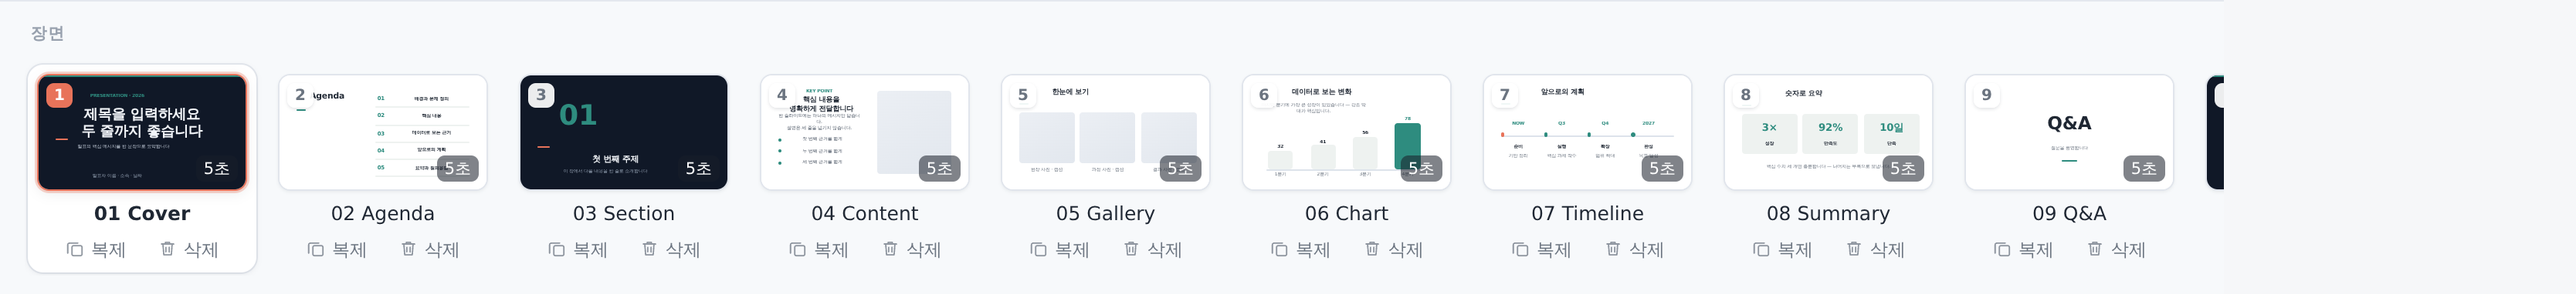
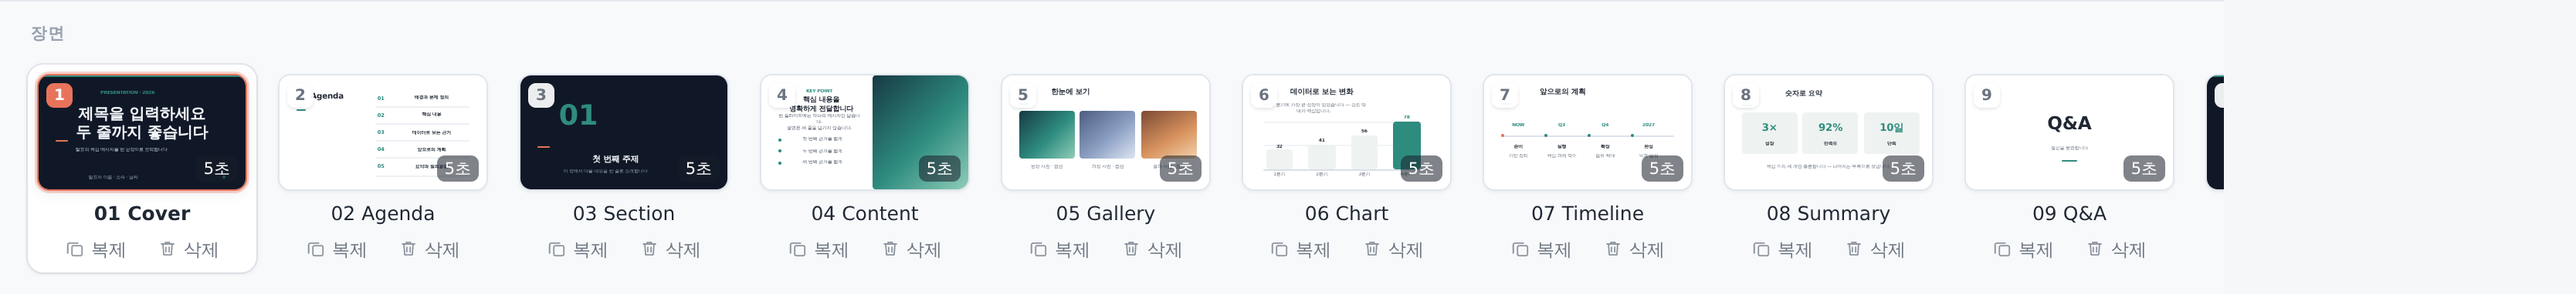
Round 08 — Premium Presentation 품질 상향 (새 템플릿 없음, tpl-pr-presentation-01 단독). ① Typography: 표지 제목 11→12·라이트 씬 대제목 5.8 통일·Agenda 6.2·라벨 2.2·베이스라인 정렬(Agenda 번호/텍스트) ② Layout: 12그리드 재정렬 — 차트 바 13/간격 7.5·타임라인 노드 라인 정중앙·stats 카드 36h 리듬·ending 라인 6.5 리듬 ③ Components v2: cover(라벨 라인+마이크로 포인트+상단 바 0.8), cont

diff --git a/maker-playground/data/sections.js b/maker-playground/data/sections.js
@@ -32,6 +32,14 @@ window.MK_SEC = (() => {
     return (0.2126 * r + 0.7152 * g + 0.0722 * b) / 255 < 0.45;
   };
 
+  /* ---------- 사진형 더미 (실서비스풍 추상 그라데이션 — 회색 박스 금지) ---------- */
+  const PH = {
+    a: 'linear-gradient(135deg,#173A44 0%,#2E8C7F 55%,#8FCDB9 100%)',
+    b: 'linear-gradient(150deg,#7C4A34 0%,#D9935F 58%,#F2D3AC 100%)',
+    c: 'linear-gradient(140deg,#4C5C80 0%,#8CA0C4 55%,#DDE4F1 100%)',
+    d: 'linear-gradient(160deg,#20313F 0%,#3E6A75 60%,#9CC3C0 100%)',
+  };
+
   /* ---------- 프리미엄 팔레트 ---------- */
   const PALETTES = {
     'pl-ink':    { name: 'Ink & Teal',   dark: '#101827', light: '#FFFFFF', soft: '#EEF2F0', accent: '#2E8C7F', accent2: '#E8735A', mutedOnDark: '#8A97A8', mutedOnLight: '#6B7480' },
@@ -46,22 +54,24 @@ window.MK_SEC = (() => {
 
   /* 01 Cover — 다크 표지: 라벨 · 초대형 제목 · 메타 · 포인트 */
   const cover = (P, { label, title, subtitle, meta }) => [
-    box(0, 0, 100, 1.1, P.accent),
-    t(8, 16, 60, 2.4, label, 700, P.accent),
-    t(8, 27, 84, 11, title, 700),
-    box(8, 55, 6.5, 0.9, P.accent2),
-    t(8, 61, 66, 3.4, subtitle, 400),
-    t(8, 86, 60, 2.4, meta, 500, P.mutedOnDark),
+    box(0, 0, 100, 0.8, P.accent),
+    box(8, 15.5, 3.6, 0.55, P.accent),
+    t(13, 14, 60, 2.2, label, 700, P.accent),
+    t(8, 25, 84, 12, title, 700),
+    box(8, 57, 6.5, 0.8, P.accent2),
+    t(8, 63.5, 64, 3.3, subtitle, 400),
+    t(8, 87, 56, 2.3, meta, 500, P.mutedOnDark),
+    box(88.6, 87.6, 1.6, 2.8, P.accent),
   ];
 
   /* 02 Agenda — 좌 대제목 · 우 번호 리스트 */
   const agenda = (P, { title, items }) => {
-    const els = [t(8, 14, 30, 6.5, title, 700), box(8, 30, 5, 0.9, P.accent)];
+    const els = [t(8, 14, 30, 6.2, title, 700), box(8, 30, 5, 0.9, P.accent)];
     items.slice(0, 5).forEach((it, i) => {
-      const y = 18 + i * 15;
-      els.push(t(46, y, 6, 4.2, String(i + 1).padStart(2, '0'), 700, P.accent));
-      els.push(t(55, y + 0.8, 37, 3.2, it, 600));
-      els.push(box(46, y + 9.5, 46, 0.28, P.soft));
+      const y = 17 + i * 15;
+      els.push(t(46, y, 6, 4, String(i + 1).padStart(2, '0'), 700, P.accent));
+      els.push(t(55, y + 1, 37, 3.1, it, 600));
+      els.push(box(46, y + 9.8, 46, 0.26, '#EDF0F4'));
     });
     return els;
   };
@@ -86,47 +96,50 @@ window.MK_SEC = (() => {
       els.push(box(8, y + 1.2, 1.4, 2.5, P.accent));
       els.push(t(11.5, y, 36, 2.7, b, 500));
     });
-    els.push(img(56, 14, 36, 72, imgLabel || ''));
+    els.push(box(54, 0, 46, 100, opts_ph(P)));
     return els;
   };
+  const opts_ph = (P) => (P === PALETTES['pl-noir'] ? PH.b : P === PALETTES['pl-cobalt'] ? PH.c : PH.a);
 
   /* 05 Gallery — 이미지 3그리드 + 캡션 */
   const gallery = (P, { title, captions }) => {
-    const els = [t(8, 11, 50, 5.5, title, 700), box(8, 24, 5, 0.9, P.accent)];
-    const W = 27, G = 2.5, X0 = 8;
+    const els = [t(8, 11, 50, 5.8, title, 700), box(8, 24, 5, 0.9, P.accent)];
+    const W = 27, G = 2.5, X0 = 8, phs = [PH.a, PH.c, PH.b];
     (captions || ['', '', '']).slice(0, 3).forEach((c, i) => {
       const x = X0 + i * (W + G);
-      els.push(img(x, 32, W, 44, ''));
-      els.push(t(x, 80, W, 2.3, c, 500, P.mutedOnLight));
+      els.push(box(x, 31, W, 42, phs[i]));
+      els.push(t(x, 77.5, W, 2.3, c, 500, P.mutedOnLight));
     });
     return els;
   };
 
   /* 06 Chart — 바 차트(값 라벨·기준선) + 인사이트 */
   const chart = (P, { title, insight, bars }) => {
-    const els = [t(8, 11, 60, 5.5, title, 700), t(8, 24, 52, 2.7, insight, 400, P.mutedOnLight)];
+    const els = [t(8, 11, 60, 5.8, title, 700), t(8, 24, 52, 2.7, insight, 400, P.mutedOnLight)];
     const max = Math.max(...bars.map((b) => b.v));
-    const X0 = 12, W = 12, G = 8.5, BASE = 82, HMAX = 40;
+    const X0 = 11, W = 13, G = 7.5, BASE = 82, HMAX = 42, SPAN = (W + G) * 4 - G + 2;
+    els.push(box(X0 - 1, BASE - HMAX, SPAN, 0.24, '#F0F3F7'));
+    els.push(box(X0 - 1, BASE - HMAX / 2, SPAN, 0.24, '#F0F3F7'));
     bars.slice(0, 4).forEach((b, i) => {
       const h = Math.max(4, b.v / max * HMAX), x = X0 + i * (W + G);
       els.push(box(x, BASE - h, W, h, i === bars.length - 1 ? P.accent : P.soft));
-      els.push(t(x, BASE - h - 5, W, 2.9, String(b.v), 700, i === bars.length - 1 ? P.accent : undefined, 'center'));
-      els.push(t(x, BASE + 2.5, W, 2.2, b.k, 500, P.mutedOnLight, 'center'));
+      els.push(t(x, BASE - h - 4.6, W, 2.8, String(b.v), 700, i === bars.length - 1 ? P.accent : undefined, 'center'));
+      els.push(t(x, BASE + 3, W, 2.2, b.k, 500, P.mutedOnLight, 'center'));
     });
-    els.push(box(X0 - 1, BASE, (W + G) * 4 - G + 2, 0.32, '#DDE3EB'));
+    els.push(box(X0 - 1, BASE, SPAN, 0.32, '#D9DFE8'));
     return els;
   };
 
   /* 07 Timeline — 가로 라인 + 노드 4개 */
   const timeline = (P, { title, steps }) => {
-    const els = [t(8, 11, 60, 5.5, title, 700), box(8, 24, 5, 0.9, P.accent), box(8, 52, 84, 0.4, '#DDE3EB')];
+    const els = [t(8, 11, 60, 5.8, title, 700), box(8, 24, 5, 0.9, P.accent), box(8, 52, 84, 0.4, '#DDE3EB')];
     const N = Math.min(steps.length, 4), span = 84 / N;
     steps.slice(0, 4).forEach((s2, i) => {
       const x = 8 + i * span;
-      els.push(box(x, 50.4, 1.8, 3.4, i === 0 ? P.accent2 : P.accent));
-      els.push(t(x, 40, span - 4, 2.4, s2.k, 700, P.accent));
-      els.push(t(x, 60, span - 4, 2.9, s2.title, 700));
-      els.push(t(x, 68, span - 4, 2.3, s2.desc, 400, P.mutedOnLight));
+      els.push(box(x, 50.7, 1.7, 3, i === 0 ? P.accent2 : P.accent));
+      els.push(t(x, 41.5, span - 4, 2.3, s2.k, 700, P.accent));
+      els.push(t(x, 60.5, span - 4, 3, s2.title, 700));
+      els.push(t(x, 68.5, span - 4, 2.3, s2.desc, 400, P.mutedOnLight));
     });
     return els;
   };
@@ -137,9 +150,9 @@ window.MK_SEC = (() => {
     const W = 27, G = 2.5;
     items.slice(0, 3).forEach((s2, i) => {
       const x = 8 + i * (W + G);
-      els.push(box(x, 34, W, 34, P.soft));
-      els.push(t(x, 41, W, 8, s2.v, 700, P.accent, 'center'));
-      els.push(t(x, 58, W, 2.5, s2.k, 600, undefined, 'center'));
+      els.push(box(x, 33, W, 36, P.soft));
+      els.push(t(x, 40, W, 8, s2.v, 700, P.accent, 'center'));
+      els.push(t(x, 58.5, W, 2.5, s2.k, 600, undefined, 'center'));
     });
     els.push(t(8, 78, 84, 2.9, note, 400, P.mutedOnLight));
     return els;
@@ -155,7 +168,7 @@ window.MK_SEC = (() => {
 
   /* 10 Team — 인물 카드 3 */
   const team = (P, { title, members }) => {
-    const els = [t(8, 11, 50, 5.5, title, 700), box(8, 24, 5, 0.9, P.accent)];
+    const els = [t(8, 11, 50, 5.8, title, 700), box(8, 24, 5, 0.9, P.accent)];
     const W = 27, G = 2.5;
     members.slice(0, 3).forEach((m, i) => {
       const x = 8 + i * (W + G);
@@ -168,7 +181,7 @@ window.MK_SEC = (() => {
 
   /* 11 Pricing — 플랜 3 (중앙 강조) */
   const pricing = (P, { title, plans }) => {
-    const els = [t(8, 10, 50, 5.5, title, 700)];
+    const els = [t(8, 10, 50, 5.8, title, 700)];
     const W = 27, G = 2.5;
     plans.slice(0, 3).forEach((pl, i) => {
       const x = 8 + i * (W + G), hot = i === 1;
@@ -184,7 +197,7 @@ window.MK_SEC = (() => {
 
   /* 12 FAQ — 질문·답 3 */
   const faq = (P, { title, items }) => {
-    const els = [t(8, 11, 40, 5.5, title, 700), box(8, 24, 5, 0.9, P.accent)];
+    const els = [t(8, 11, 40, 5.8, title, 700), box(8, 24, 5, 0.9, P.accent)];
     items.slice(0, 3).forEach((q, i) => {
       const y = 32 + i * 20;
       els.push(t(8, y, 5, 3.4, 'Q', 700, P.accent));
@@ -205,7 +218,7 @@ window.MK_SEC = (() => {
 
   /* 14 Table — 헤더 + 3행 */
   const table = (P, { title, head, rows }) => {
-    const els = [t(8, 10, 60, 5.5, title, 700), box(8, 24, 84, 7.5, P.dark)];
+    const els = [t(8, 10, 60, 5.8, title, 700), box(8, 24, 84, 7.5, P.dark)];
     const cw = 84 / head.length;
     head.forEach((h, i) => els.push(t(10 + i * cw, 26.4, cw - 3, 2.4, h, 700, '#FFFFFF')));
     rows.slice(0, 3).forEach((r, ri) => {
@@ -235,7 +248,7 @@ window.MK_SEC = (() => {
       t(8, 28, 84, 10, title, 700),
       box(8, 52, 6.5, 0.9, P.accent2),
     ];
-    (lines || []).slice(0, 3).forEach((l, i) => els.push(t(8, 60 + i * 7, 70, 2.7, l, 400, P.mutedOnDark)));
+    (lines || []).slice(0, 3).forEach((l, i) => els.push(t(8, 61 + i * 6.5, 70, 2.6, l, 400, P.mutedOnDark)));
     return els;
   };
 
@@ -258,7 +271,7 @@ window.MK_SEC = (() => {
 
   /* 19 Features — 카드 3 (아이콘 자리 + 제목 + 설명) */
   const features = (P, { title, items }) => {
-    const els = [t(8, 10, 60, 5.5, title, 700), box(8, 23, 5, 0.9, P.accent)];
+    const els = [t(8, 10, 60, 5.8, title, 700), box(8, 23, 5, 0.9, P.accent)];
     const W = 27, G = 2.5;
     items.slice(0, 3).forEach((f, i) => {
       const x = 8 + i * (W + G);
@@ -303,7 +316,7 @@ window.MK_SEC = (() => {
       { name: '01 Cover', bg: P.dark, els: cover(P, { label: 'PRESENTATION · 2026', title: '제목을 입력하세요\n두 줄까지 좋습니다', subtitle: '발표의 핵심 메시지를 한 문장으로 요약합니다', meta: '발표자 이름 · 소속 · 날짜' }) },
       { name: '02 Agenda', bg: P.light, els: agenda(P, { title: 'Agenda', items: ['배경과 문제 정의', '핵심 내용', '데이터로 보는 근거', '앞으로의 계획', '요약과 질의응답'] }) },
       { name: '03 Section', bg: P.dark, els: sectionDivider(P, { num: '01', title: '첫 번째 주제', sub: '이 장에서 다룰 내용을 한 줄로 소개합니다' }) },
-      { name: '04 Content', bg: P.light, els: contentSplit(P, { label: 'KEY POINT', title: '핵심 내용을\n명확하게 전달합니다', body: '한 슬라이드에는 하나의 메시지만 담습니다.\n설명은 세 줄을 넘기지 않습니다.', bullets: ['첫 번째 근거를 짧게', '두 번째 근거를 짧게', '세 번째 근거를 짧게'], imgLabel: '핵심 이미지' }) },
+      { name: '04 Content', bg: P.light, els: contentSplit(P, { label: 'KEY POINT', title: '핵심 내용을\n명확하게 전달합니다', body: '한 슬라이드에는 하나의 메시지만 담습니다.\n설명은 세 줄을 넘기지 않습니다.', bullets: ['첫 번째 근거를 짧게', '두 번째 근거를 짧게', '세 번째 근거를 짧게'], ph: true }) },
       { name: '05 Gallery', bg: P.light, els: gallery(P, { title: '한눈에 보기', captions: ['현장 사진 · 캡션', '과정 사진 · 캡션', '결과 사진 · 캡션'] }) },
       { name: '06 Chart', bg: P.light, els: chart(P, { title: '데이터로 보는 변화', insight: '마지막 분기에 가장 큰 성장이 있었습니다 — 강조 막대가 핵심입니다.', bars: [{ k: '1분기', v: 32 }, { k: '2분기', v: 41 }, { k: '3분기', v: 56 }, { k: '4분기', v: 78 }] }) },
       { name: '07 Timeline', bg: P.light, els: timeline(P, { title: '앞으로의 계획', steps: [{ k: 'NOW', title: '준비', desc: '기반 정리' }, { k: 'Q3', title: '실행', desc: '핵심 과제 착수' }, { k: 'Q4', title: '확장', desc: '범위 확대' }, { k: '2027', title: '완성', desc: '목표 달성' }] }) },
@@ -318,7 +331,7 @@ window.MK_SEC = (() => {
   };
   window.MK_SAMPLE.TEMPLATES.push(PRESENTATION);
 
-  return { PALETTES, isDark, t, box, img, compose,
+  return { PALETTES, PH, isDark, t, box, img, compose,
     cover, agenda, sectionDivider, contentSplit, gallery, chart, timeline, stats, quote,
     team, pricing, faq, cta, table, logoGrid, ending, statement, hero, features, summary };
 })();

diff --git a/maker-playground/index.html b/maker-playground/index.html
@@ -6,9 +6,9 @@
 <meta name="robots" content="noindex">
 <title>K-MAKER Design Playground</title>
 <link rel="stylesheet" href="https://cdn.jsdelivr.net/gh/orioncactus/pretendard@v1.3.9/dist/web/static/pretendard.min.css">
-<link rel="stylesheet" href="tokens.css?v=20260718f">
-<link rel="stylesheet" href="playground.css?v=20260718f">
-<link rel="stylesheet" href="components/button.css?v=20260718f">
+<link rel="stylesheet" href="tokens.css?v=20260718g">
+<link rel="stylesheet" href="playground.css?v=20260718g">
+<link rel="stylesheet" href="components/button.css?v=20260718g">
 </head>
 <body>
 <div class="pg-shell">
@@ -22,26 +22,26 @@
     <div class="pg-body" id="pgBody"></div>
   </main>
 </div>
-<script src="data/sample.js?v=20260718f"></script>
-<script src="data/sections.js?v=20260718f"></script>
-<script src="data/templates.js?v=20260718f"></script>
-<script src="data/assets.js?v=20260718f"></script>
-<script src="data/projects.js?v=20260718f"></script>
-<script src="data/animations.js?v=20260718f"></script>
-<script src="components.js?v=20260718f"></script>
-<script src="screens/misc.js?v=20260718f"></script>
-<script src="screens/foundations.js?v=20260718f"></script>
-<script src="screens/components.js?v=20260718f"></script>
-<script src="screens/home.js?v=20260718f"></script>
-<script src="screens/create.js?v=20260718f"></script>
-<script src="screens/browser.js?v=20260718f"></script>
-<script src="screens/editor.js?v=20260718f"></script>
-<script src="screens/assets.js?v=20260718f"></script>
-<script src="screens/ai.js?v=20260718f"></script>
-<script src="screens/projects.js?v=20260718f"></script>
-<script src="screens/workspace.js?v=20260718f"></script>
-<script src="screens/builder.js?v=20260718f"></script>
-<script src="screens/animation.js?v=20260718f"></script>
-<script src="app.js?v=20260718f"></script>
+<script src="data/sample.js?v=20260718g"></script>
+<script src="data/sections.js?v=20260718g"></script>
+<script src="data/templates.js?v=20260718g"></script>
+<script src="data/assets.js?v=20260718g"></script>
+<script src="data/projects.js?v=20260718g"></script>
+<script src="data/animations.js?v=20260718g"></script>
+<script src="components.js?v=20260718g"></script>
+<script src="screens/misc.js?v=20260718g"></script>
+<script src="screens/foundations.js?v=20260718g"></script>
+<script src="screens/components.js?v=20260718g"></script>
+<script src="screens/home.js?v=20260718g"></script>
+<script src="screens/create.js?v=20260718g"></script>
+<script src="screens/browser.js?v=20260718g"></script>
+<script src="screens/editor.js?v=20260718g"></script>
+<script src="screens/assets.js?v=20260718g"></script>
+<script src="screens/ai.js?v=20260718g"></script>
+<script src="screens/projects.js?v=20260718g"></script>
+<script src="screens/workspace.js?v=20260718g"></script>
+<script src="screens/builder.js?v=20260718g"></script>
+<script src="screens/animation.js?v=20260718g"></script>
+<script src="app.js?v=20260718g"></script>
 </body>
 </html>

diff --git a/maker-playground/playground.css b/maker-playground/playground.css
@@ -1578,3 +1578,6 @@ body.pg-chromeless .pg-shell { grid-template-columns: 1fr; }
 .ed-el.img-ph:not(.has-fill) { box-shadow: inset 0 0 0 1px rgba(20, 28, 40, .045); }
 .ed-mainmenu button .nm, .ed-mainmenu button { letter-spacing: .1px; }
 .ed-tl-block { border-color: #E1E5EC; }
+
+/* ---- Round 08: 풀블리드 요소가 캔버스 radius를 존중 ---- */
+.ed-canvas { overflow: hidden; }
